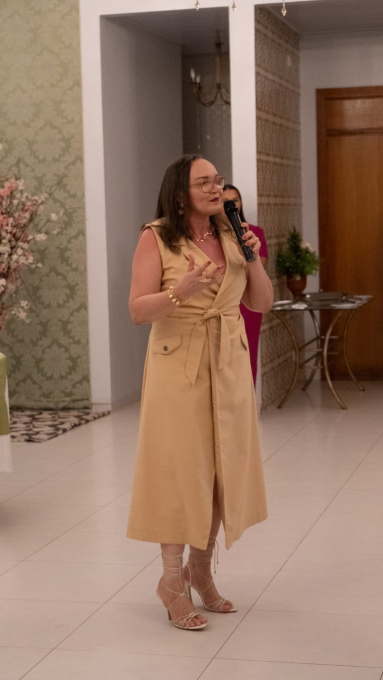
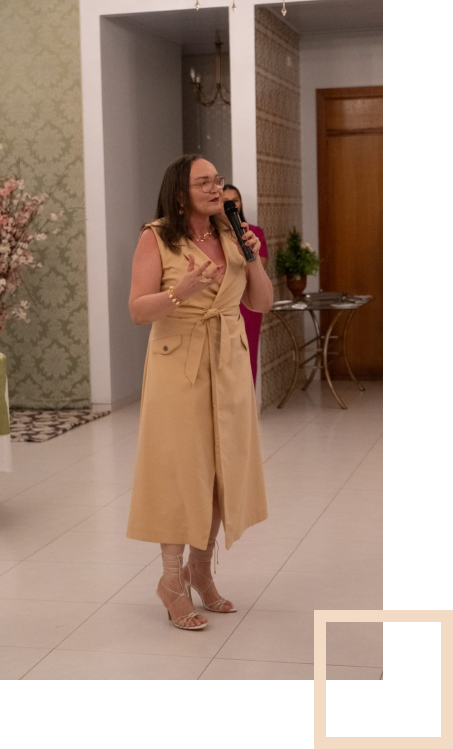
feat: images inserted

diff --git a/src/components/SuccessPaths.vue b/src/components/SuccessPaths.vue
@@ -32,11 +32,15 @@
 </script>
 
 <template>
-  <div class="wrapper-success-paths mt-28 gap-20 flex justify-around">
+  <div class="wrapper-success-paths gap-20 flex justify-around">
     <img class="flaudiene-image-2" src="@/assets/flaudiene-corpo-inteiro-2.png" alt="">
 
     <div class="success-paths-container">
-      <div class="container-title mb-28">
+      <div class="square-container">
+        <img class="two-squares" src="@/assets/two-square.svg" alt="Squares">
+      </div>
+
+      <div class="title-container mb-28">
         Caminhos para o Sucesso
       </div>
 
@@ -53,15 +57,36 @@
 
 <style lang="scss" scoped>
 .wrapper-success-paths {
+  margin-top: 290px;
+
   .flaudiene-image-2 {
     height: max-content;
   }
 
   .success-paths-container {
-    .container-title {
+    position: relative;
+    
+    .square-container {
+      position: absolute;
+      top: -130px;
+      right: 0;
+    }
+
+    .title-container {
       color: var(--vt-c-black-soft);
       font-size: 3rem;
       font-weight: 500;
+      
+    }
+  }
+}
+
+@media (min-width: 1400px) {
+  .wrapper-success-paths {
+    .success-paths-container {
+      .square-container {
+        right: -90px;
+      }
     }
   }
 }
